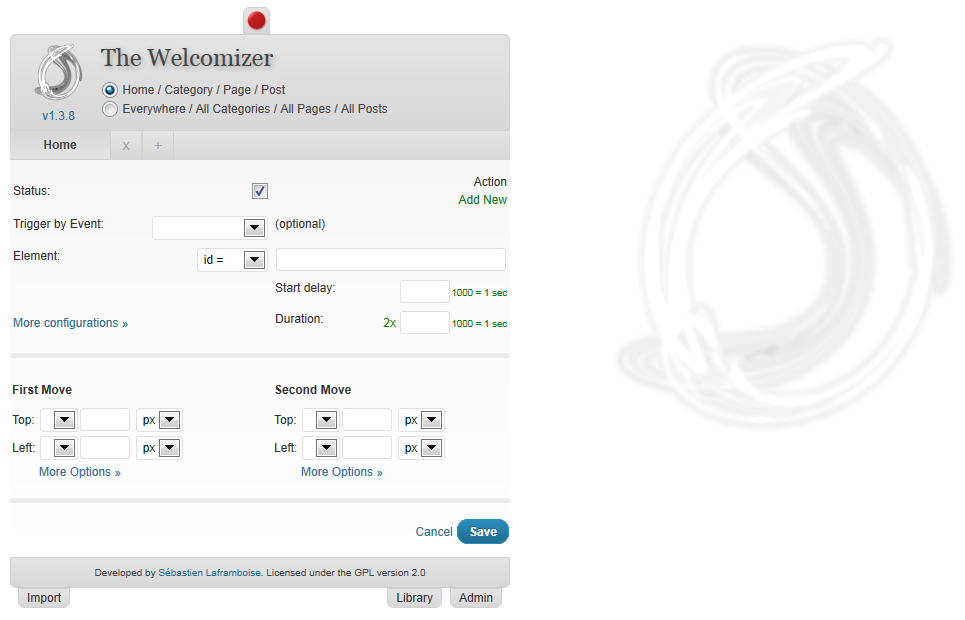
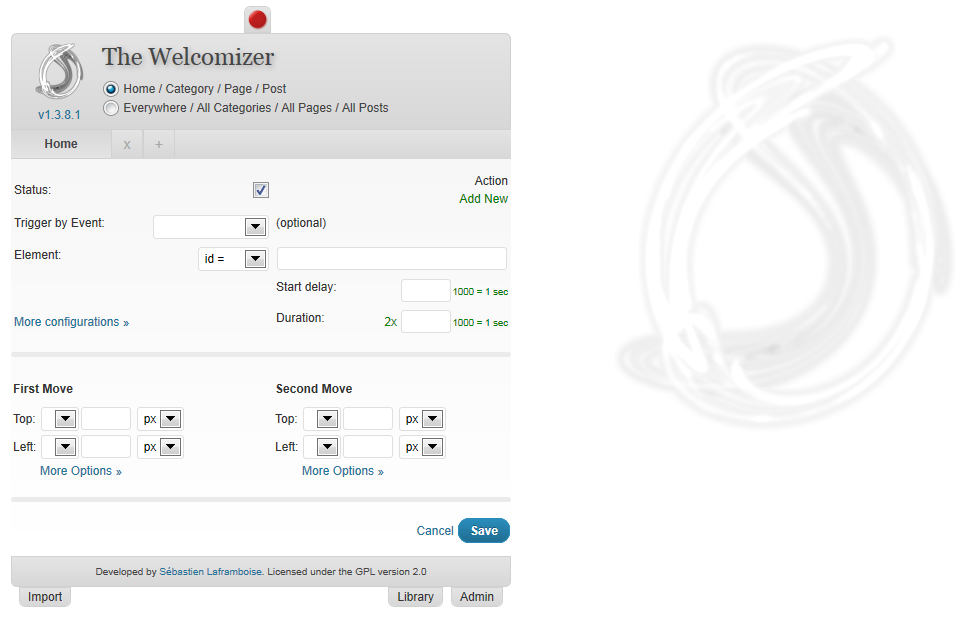
v1.3.8.1
git-svn-id: https://plugins.svn.wordpress.org/the-welcomizer/trunk@433761 b8457f37-d9ea-0310-8a92-e5e31aec5664

diff --git a/includes/twiz-style.css b/includes/twiz-style.css
@@ -395,6 +395,11 @@
     text-align: left;
     font-size: 12px;
 }
+.twiz-admin-form-td-left {
+    width: 275px;
+    padding: 3px;
+    font-size: 12px;
+}
 .twiz-form-td-left {
     width: 260px;
     padding: 3px;

diff --git a/includes/twiz.class.php b/includes/twiz.class.php
@@ -383,7 +383,7 @@ class Twiz{
         $this->pluginUrl  = $pluginUrl;
         $this->pluginDir  = $pluginDir;
         $this->pluginName = __('The Welcomizer', 'the-welcomizer');
-        $this->version    = '1.3.8';
+        $this->version    = '1.3.8.1';
         $this->dbVersion  = '2.51';
         $this->table      = $wpdb->prefix .'the_welcomizer';
         $this->logoUrl    = '/images/twiz-logo.png';
@@ -1492,7 +1492,11 @@ $(document).twizReplay();';
         if($ab==''){return '';}
         $direction = '';
         
-        if(($data['move_top_pos_sign_'.$ab] != '')and($data['move_left_pos_sign_'.$ab] != '')){
+        if((($data['move_top_pos_sign_'.$ab] != '') and ($data['move_left_pos_'.$ab] == ''))
+        or (($data['move_left_pos_sign_'.$ab] != '') and ($data['move_top_pos_'.$ab] == ''))
+        or (($data['move_left_pos_sign_'.$ab] != '') and ($data['move_top_pos_'.$ab] != '')
+        and ($data['move_top_pos_sign_'.$ab] != '') and ($data['move_left_pos_'.$ab] != ''))
+        ){
         
             /* true super fast logical switch */
             switch(true){

diff --git a/includes/twiz.admin.class.php b/includes/twiz.admin.class.php
@@ -67,7 +67,7 @@ jQuery(document).ready(function($) {
 
         $html = '<table class="twiz-table-form" cellspacing="0" cellpadding="0">';      
         
-        $html .= '<tr><td class="twiz-form-td-left">'.__('Output code hooked to', 'the-welcomizer').': ';
+        $html .= '<tr><td class="twiz-admin-form-td-left">'.__('Output code hooked to', 'the-welcomizer').': ';
         $html .= '<div class="twiz-float-right">'.$this->getHTMLOutputList().'</td><td class="twiz-form-td-right"></td></tr>';
         
         $html .= '<tr><td colspan="2"><hr></td></tr>';

diff --git a/twiz-index.php b/twiz-index.php
@@ -1,7 +1,7 @@
 <?php
 /*
 Plugin Name: The Welcomizer
-Version: 1.3.8
+Version: 1.3.8.1
 Plugin URI: http://www.sebastien-laframboise.com/wordpress/plugins-wordpress/the-welcomizer
 Description: This plugin allows you to animate your blog using jQuery effects. (100% AJAX) + .js/.css Includer.
 Author: S&#233;bastien Laframboise
